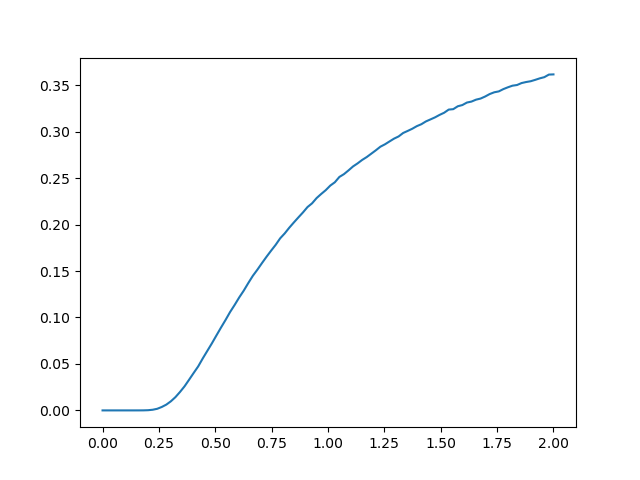
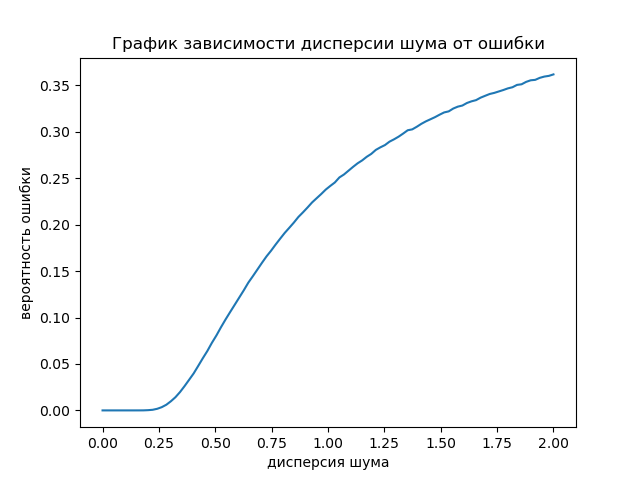
commit

diff --git a/graph.py b/graph.py
@@ -21,6 +21,9 @@ for mod in modules:
         y.append(diff)
 
     plt.plot(X, y)
+    plt.title("График зависимости дисперсии шума от ошибки")
+    plt.xlabel("дисперсия шума")
+    plt.ylabel("вероятность ошибки")
     plt.savefig(f"graph_{mod}.png")
     plt.close()
 
